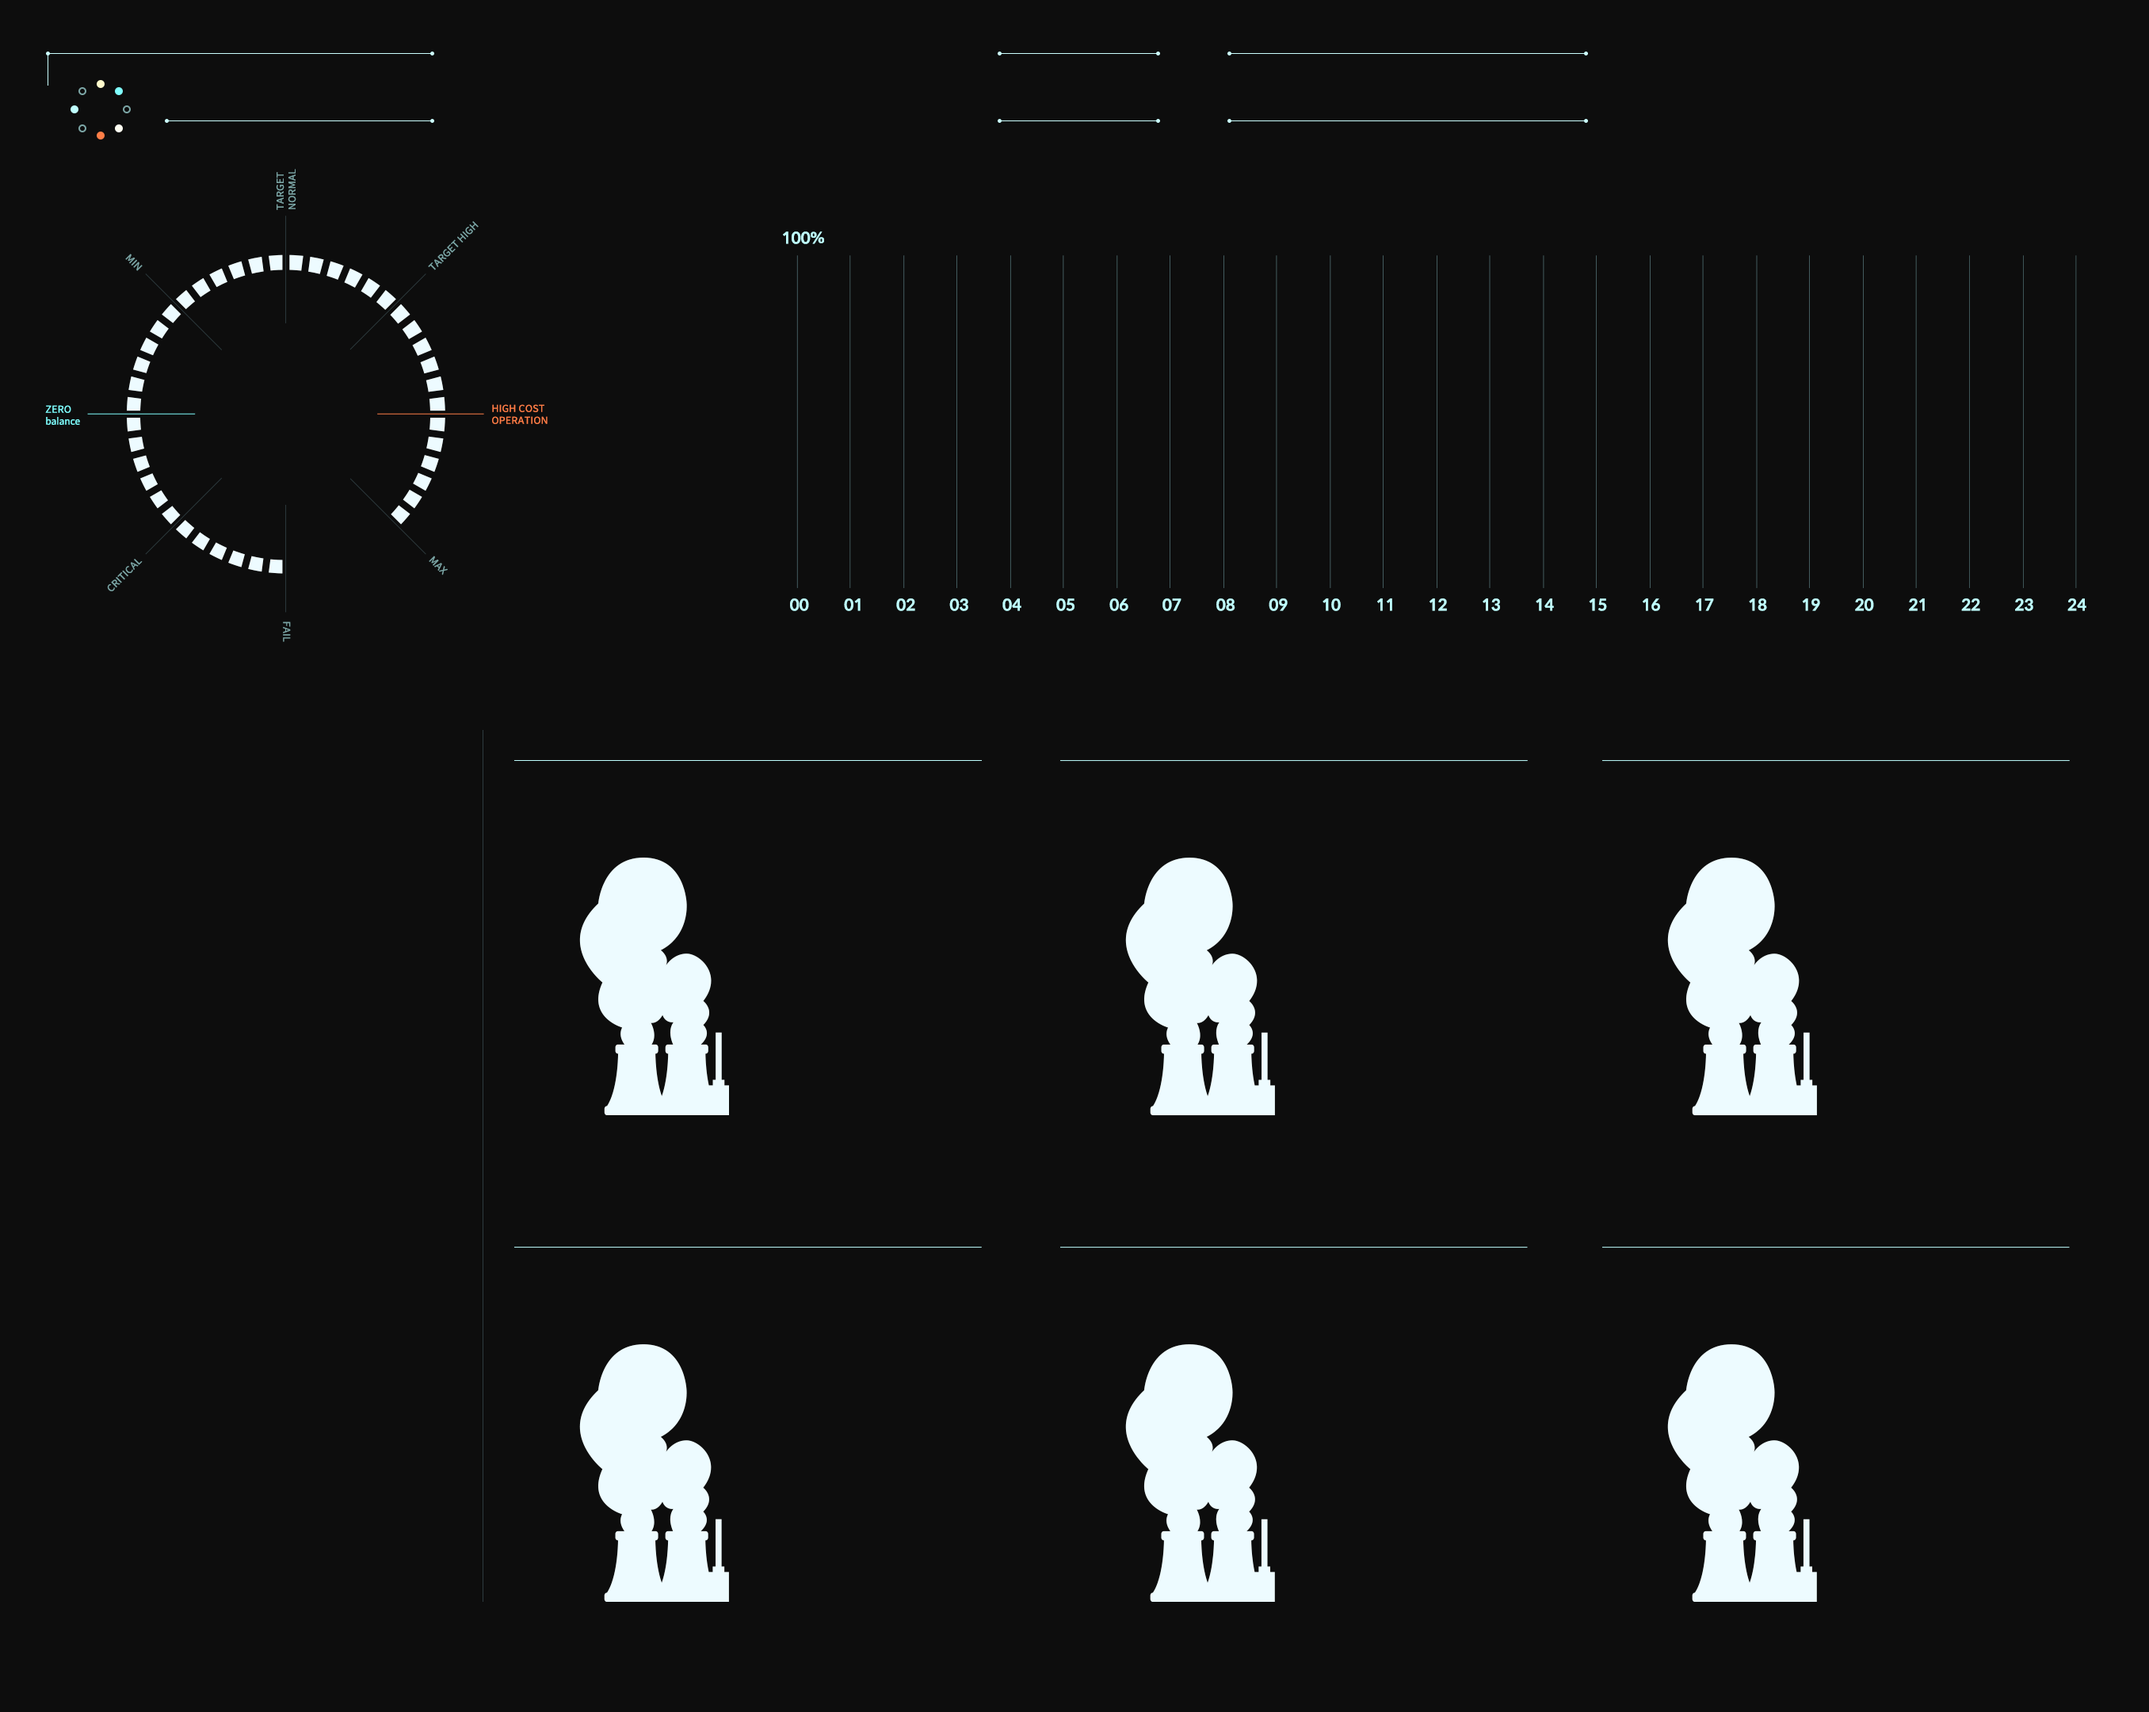
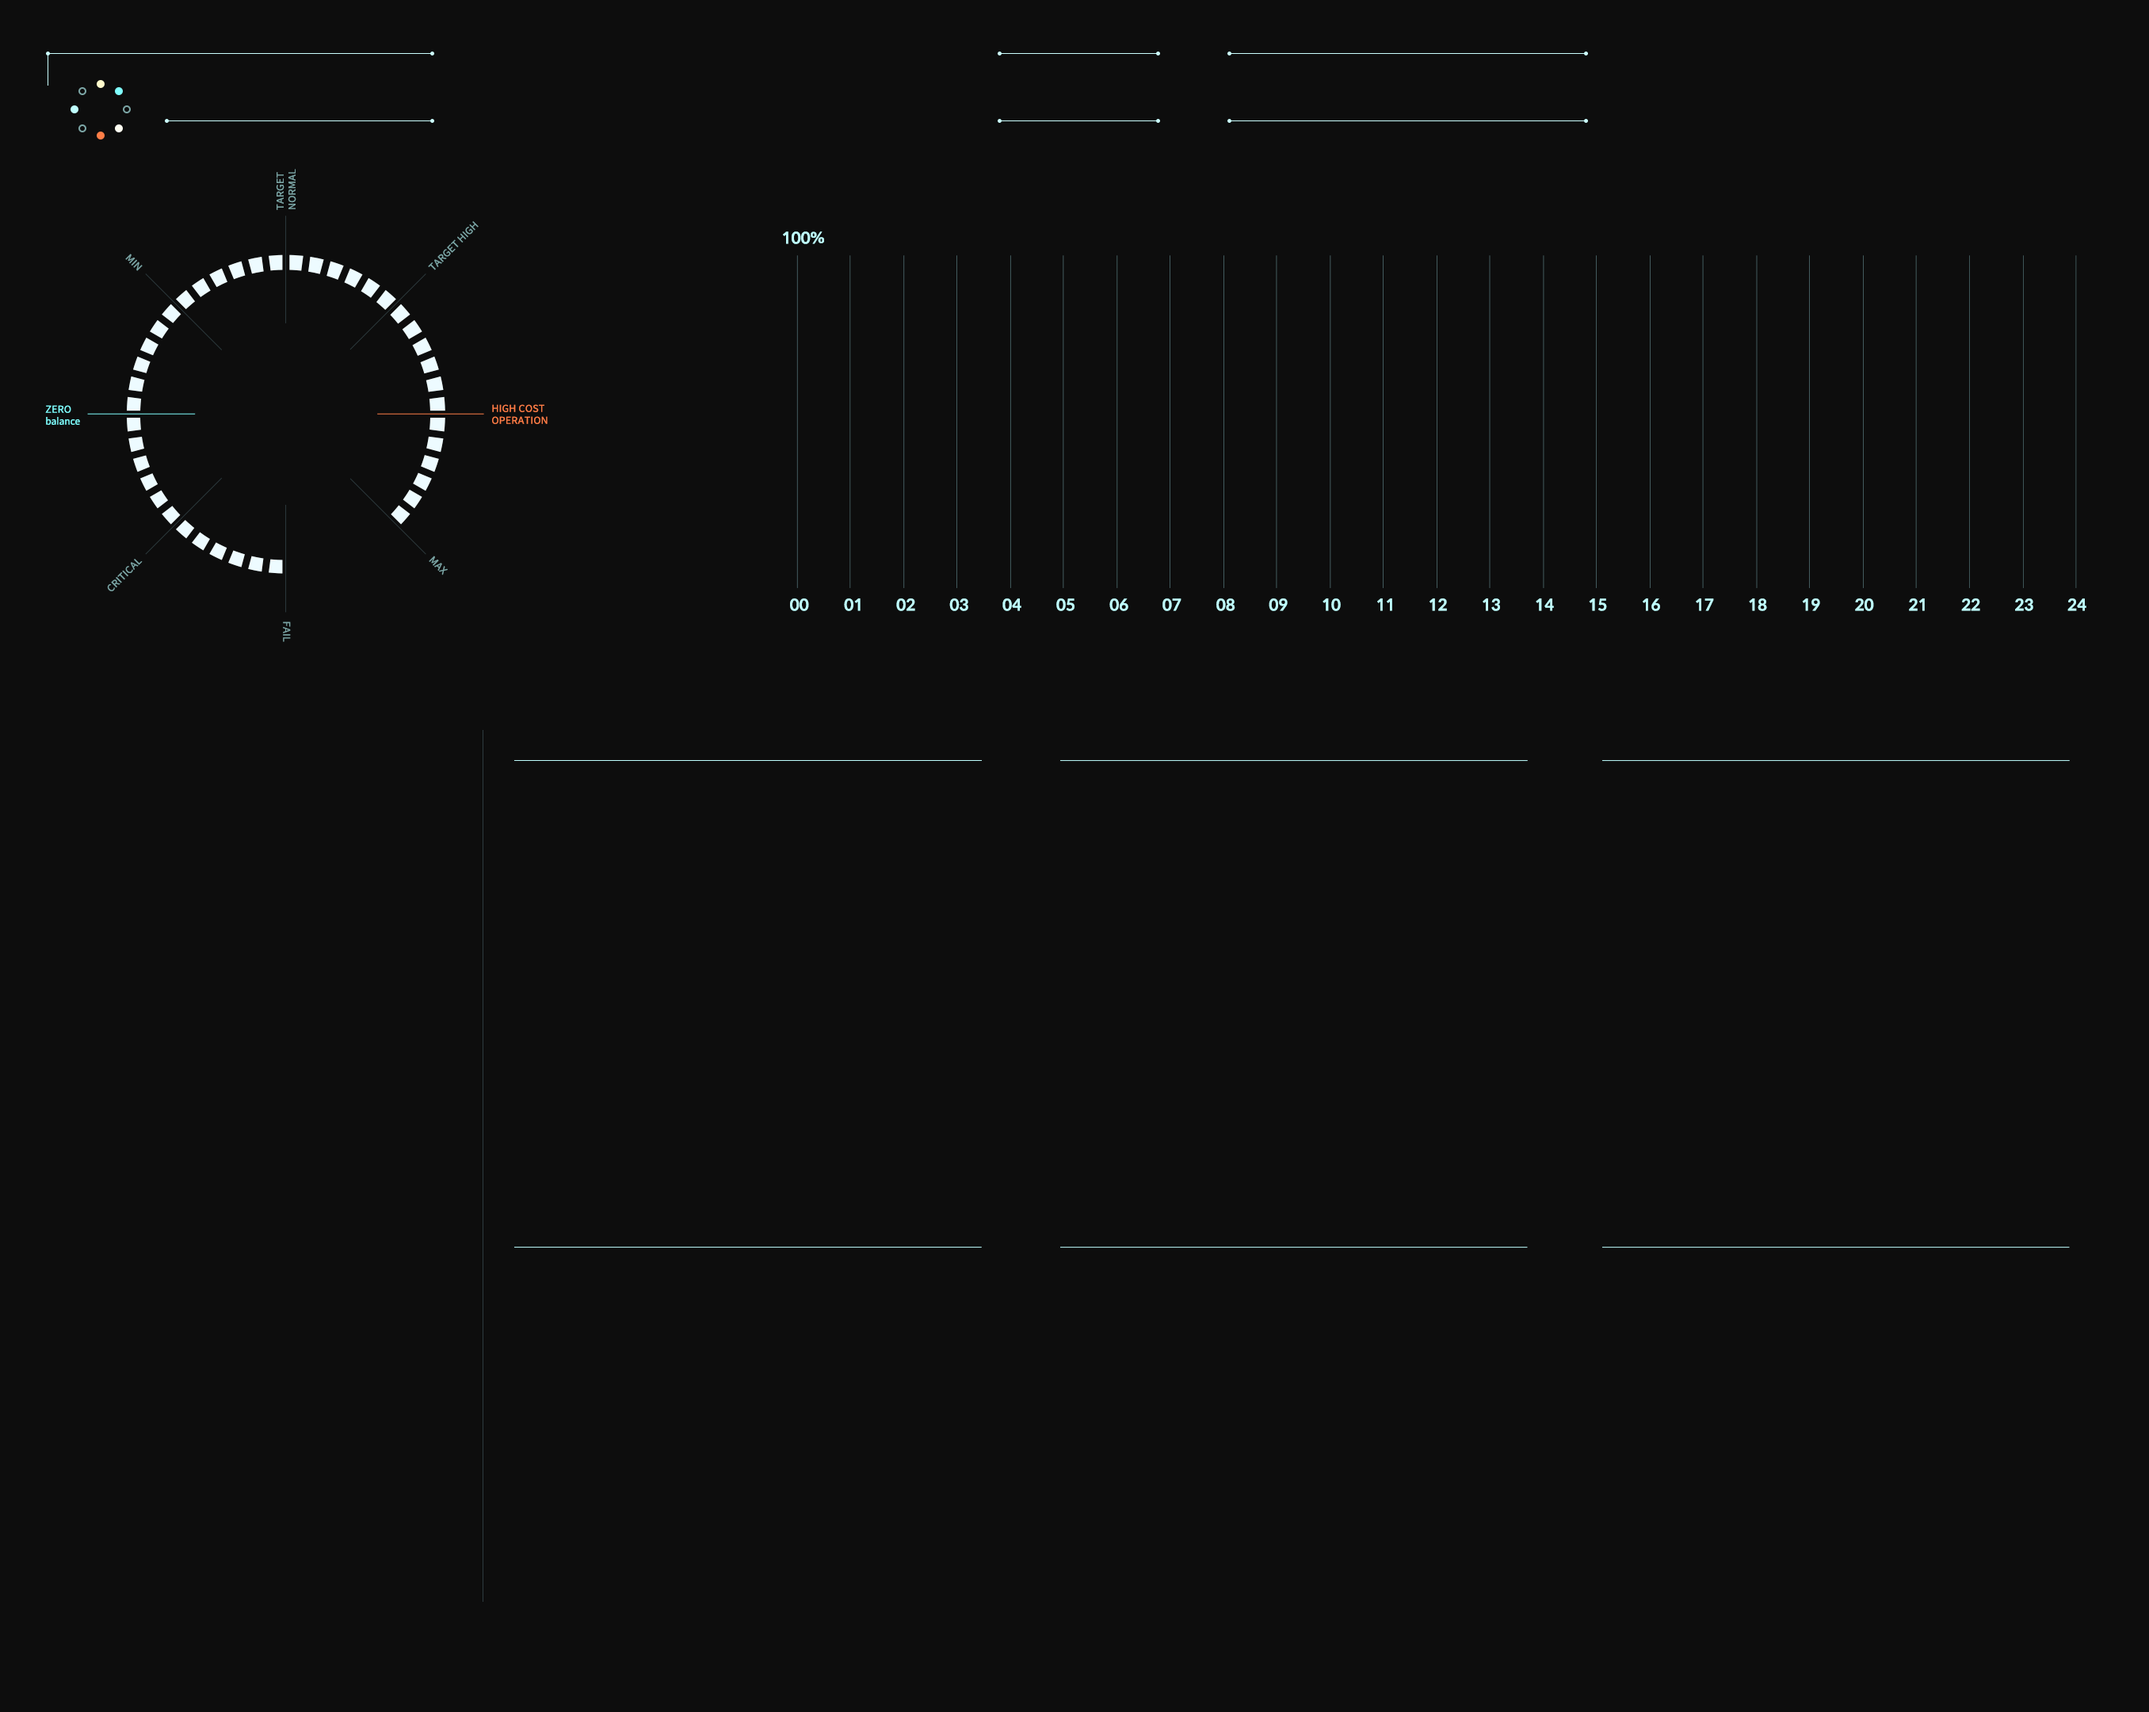
state2-1 대충이라고 실데이터 입력

diff --git a/src/app/main/state2-graph.html b/src/app/main/state2-graph.html
@@ -59,45 +59,35 @@
 
     <!--todo:: call value, current temp value-->
     <div class="absolute pt24 c-7ca6a6" style="left: 52px;top: 1015px;width: 170px;line-height: 55px;">
-      <ul ng-repeat="con in main.consumerlist">
+      <ul ng-repeat="con in main.resourcesConsumers">
         <li style="overflow: hidden;
     height: 55px;
     text-overflow: ellipsis;
     white-space: nowrap;
-    word-break: break-all;">{{con.name}}
+    word-break: break-all;">{{con.cons_name}}
         </li>
       </ul>
     </div>
     <div class="absolute pt24 c-7ca6a6" style="left: 225px;top: 1027px;width: 320px;height: 30px;line-height: 55px;">
-      <div ng-repeat="con in main.consumerlist" style="">
+      <div ng-repeat="con in main.resourcesConsumers" style="">
         <div style="float: left;background-color: #bfffff;height: 30px;margin-bottom: 25px;"
-             ng-style="{width: con.target}"></div>
-        <div style="background-color: #2e3c40;height: 30px;margin-bottom: 25px;" ng-style="{width: con.value}"></div>
+             ng-style="{width: con.cont_watt/320 *100}"></div>
+        <div style="background-color: #2e3c40;height: 30px;margin-bottom: 25px;" ng-style="{width: 320}"></div>
       </div>
     </div>
 
 
     <div id="resource-graph" class="state2-graph" style="top: 320px;left: 987px;"></div>
-    <!--<div class="absolute" style="top: 320px;left: 987px;width: 1700px;height: 450px;">
-      <div id="resource-graph-tooltip" class="state2-graph-tooltip"
-           ng-style="{bottom:main.tooltipBottom, left:main.tooltipLeft}">200kW</div>
-    </div>-->
-
-
-    <!--temp img
-    <img src="../assets/images/sector2_image/tempimg.png" class="absolute"
-         style="left: 596px;
-    top: 903px;
-    z-index: 45;
-    position: absolute;
-    width: 2090px;"/>-->
 
     <section style="width: 2090px;height: 1225px;position: absolute;top: 903px;left: 600px;overflow: hidden;">
       <!--each-->
-      <div class="bfffff graph-section-each" ng-repeat="con in main.consumerlist">
-        <div class="pt28">{{con.name}}</div>
-        <div class="absolute pt24" style="top: 80px;">기준시간 <span style="margin-left: 20px;">{{con.standardTime}}</span>
+      <div class="bfffff graph-section-each" ng-repeat="con in main.resourcesConsumers">
+        <div class="pt28">{{con.cons_name}}</div>
+        <div class="absolute pt24" style="top: 80px;">기준시간 <span style="margin-left: 20px;">{{main.currentTime}}</span>
         </div>
+
+        <img src="../assets/images/sector2_image/plant_img.png" style="position: absolute;top: 163px;left: 86px;z-index: 40;" />
+        <div class="factory-bg"></div>
 
         <div class="absolute" style="top:167px;">
           <div class="pt14">감축부하</div>
@@ -111,11 +101,11 @@
           <div class="pt14">MAX</div>
           <div class="pt20">{{con.max}}<span class="pt16">kW</span></div>
         </div>
-        <div class="absolute" style="top:253px;left: 258px;">
+        <div class="absolute" style="top:253px;left: 258px;z-index: 40;">
           <span class="pt14">CBL</span>
           <span class="pt20">{{con.cbl}}<span class="pt16">kW</span></span>
         </div>
-        <div class="absolute" style="top:411px;left: 274px;">
+        <div class="absolute" style="top:411px;left: 283px;z-index: 40;">
           <span class="pt14">TARGET</span>
           <span class="pt20">{{con.targetValue}}<span class="pt16">kW</span></span>
         </div>
@@ -147,15 +137,6 @@
 
   </div>
 </div>
-
-<div class="nonfactory-bg" style="left: 1452px;bottom: 750px;"></div>
-<div class="nonfactory-bg" style="left: 2147px;bottom: 750px;"></div>
-<div class="nonfactory-bg" style="left: 2834px;bottom: 750px;"></div>
-<div class="nonfactory-bg" style="left: 1452px;bottom: 135px;"></div>
-<div class="nonfactory-bg" style="left: 2147px;bottom: 135px;"></div>
-<div class="nonfactory-bg" style="left: 2834px;bottom: 135px;"></div>
-
-<div class="factory-bg"></div>
 
 <div class="sector2-map-go" ui-sref="state2"></div>
 

diff --git a/src/app/components/state2-nav/state2-nav2.html b/src/app/components/state2-nav/state2-nav2.html
@@ -3,24 +3,24 @@
 
 <div class="sector2-nav2">
 
-  <div class="absolute fffef2 pt70" style="font-weight: 200;left: 86px;top: 100px;">FEEDS</div>
+  <div class="absolute fffef2 pt70" style="font-weight: 200;left: 86px;top: 100px;">MENU</div>
 
   <div ng-class="{'state2-btn-red': vm.currentState == 'state2', 'state2-btn-sky': vm.currentState == 'state2-1'}"
        style="left: 72px; top: 485px;">지도 MAP
-    <span class="state2-btn-feed">FEED</span>
+    <span class="state2-btn-feed">LIST</span>
   </div>
 
   <div ng-class="{'state2-btn-red': vm.currentState == 'state2-1', 'state2-btn-sky': vm.currentState == 'state2'}"
        style="left: 72px; top: 792px;">발전현황
-    <span class="state2-btn-feed">FEED</span>
+    <span class="state2-btn-feed">LIST</span>
   </div>
 
   <div class="state2-btn-sky" style="left: 72px; top: 1149px;">현장 카메라
-    <span class="state2-btn-feed" style="margin-left: 40px;">FEED</span>
+    <span class="state2-btn-feed" style="margin-left: 40px;">LIST</span>
   </div>
 
   <div class="state2-btn-sky" style="left: 72px; top: 1523px;">네크워크 관리
-    <span class="state2-btn-feed" style="margin-left: 40px;">FEED</span>
+    <span class="state2-btn-feed" style="margin-left: 40px;">LIST</span>
   </div>
 
   <div class="absolute c-7ca6a6 pt24" style="left: 240px; top:1268px;">

diff --git a/src/app/main/main.controller.js b/src/app/main/main.controller.js
@@ -6,9 +6,11 @@
     .controller('MainController', MainController);
 
   /** @ngInject */
-  function MainController($log, $timeout, energyService, c3) {
+  function MainController($log, $timeout, energyService, c3, $interval) {
     var vm = this;
     vm._ = _;
+
+    vm.currentTime = moment().format('YYYY-DD-MM hh:mm:ss');
 
     // vm.timeX = ['0','1','2','3','4','5','6','7','8','9','10','11','12','13','14','15','16','17','18','19','20','21','22','23','24'];
 
@@ -179,6 +181,42 @@
       )
     }
 
+
+    getCompaniesResources();
+    function getCompaniesResources() {
+      energyService.companiesResources().then(
+        function (resp) {
+          vm.companiesResources = resp.companiesResources;
+
+          $timeout(getCompaniesResources, 900000);
+
+        }
+      )
+    }
+
+    getResourcesConsumers();
+    function getResourcesConsumers() {
+      energyService.resourcesConsumers().then(
+        function (resp) {
+          vm.resourcesConsumers = resp.resourcesConsumers;
+
+          $timeout(getResourcesConsumers, 900000);
+
+        }
+      )
+    }
+
+    /*
+    cons_idx
+    cons_name
+    cont_watt
+    eco_dr_flag
+    name
+    negaWatt
+    phone
+    photo
+    tr_bad
+    tr_complete*/
 
 
     vm.consumerlist = [

diff --git a/src/app/main/main.service.js b/src/app/main/main.service.js
@@ -33,6 +33,40 @@
           $log.debug('ERRORS:: ', response);
         });
         return deferred.promise;
+      },
+
+      companiesResources: function () {
+        var deferred = $q.defer();
+
+        $http({
+          method: 'GET',
+          url: 'http://61.39.74.111:32770/aict/nvpp/companies/1/resources'
+        }).then(function (resp) {
+
+          $log.info('companiesResources:: ', resp.data);
+          var companiesResources = resp.data.data;
+          deferred.resolve({companiesResources: companiesResources});
+        }, function errorCallback(response) {
+          $log.debug('ERRORS:: ', response);
+        });
+        return deferred.promise;
+      },
+
+      resourcesConsumers: function () {
+        var deferred = $q.defer();
+
+        $http({
+          method: 'GET',
+          url: 'http://61.39.74.111:32770/aict/nvpp/resources/5/consumers'
+        }).then(function (resp) {
+
+          $log.info('resourcesConsumers:: ', resp.data);
+          var resourcesConsumers = resp.data.data;
+          deferred.resolve({resourcesConsumers: resourcesConsumers});
+        }, function errorCallback(response) {
+          $log.debug('ERRORS:: ', response);
+        });
+        return deferred.promise;
       }
 
 

diff --git a/src/app/main/state2.css b/src/app/main/state2.css
@@ -76,9 +76,6 @@
 .c3-line {
   stroke-width: 2px !important;
 }
-/*.c3-tooltip-container {
-  display: block !important;
-}*/
 .round-progress-wrapper {
   position: absolute !important;
   /*z-index: 40;*/
@@ -102,22 +99,16 @@
   margin-right: 90px;
   float: left;
   position: relative;
+  /*background-color: #0d0d0d;*/
 }
 .factory-bg {
   position: absolute;
   background-color: #80ffff;
-  width: 220px;
+  width: 197px;
   height: 200px;
   z-index: 20;
-  left: 1452px;
-  bottom: 753px;
-}
-.nonfactory-bg {
-  position: absolute;
-  background-color: #0c1011;
-  width: 220px;
-  height: 350px;
-  z-index: 20;
+  left: 87px;
+  bottom: 118px;
 }
 
 .c3-tooltip td {

diff --git a/src/app/main/state1-part2.html b/src/app/main/state1-part2.html
@@ -1,7 +1,7 @@
 <div class="">
   <div class="part2-title">
     <span class="bfffff pt26" style="margin-right: 10px;">R2</span>
-    <span class="d9ffff pt75" style="margin-right: 63px;">신재생</span>
+    <span class="d9ffff pt75" style="margin-right: 63px;">SOLAR</span>
     <span class="bfffff pt26" style="margin-right: 10px;">자원</span>
     <span class="fffef2 pt75" style="margin-right: 80px;">25</span>
     <span class="bfffff pt26" style="margin-right: 10px;">발전소</span>
